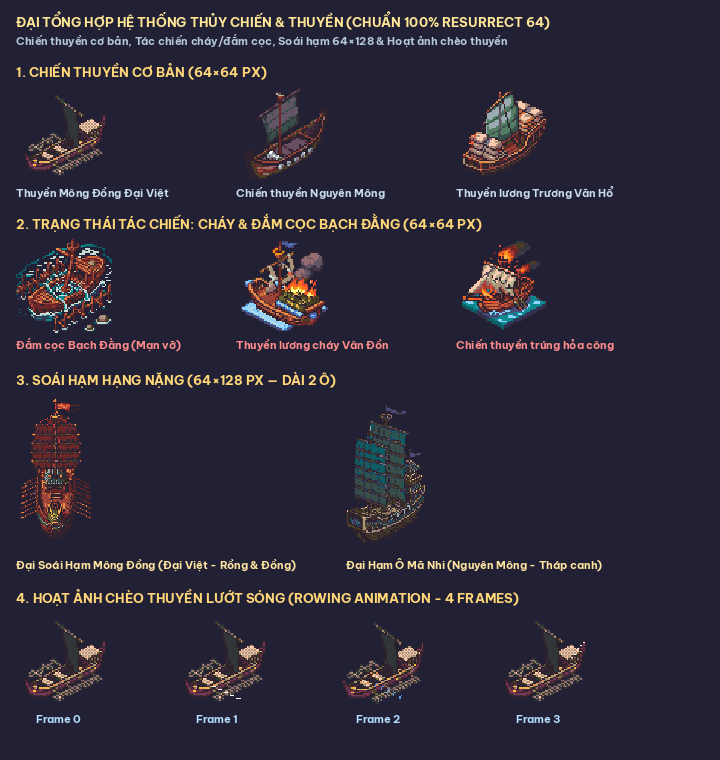
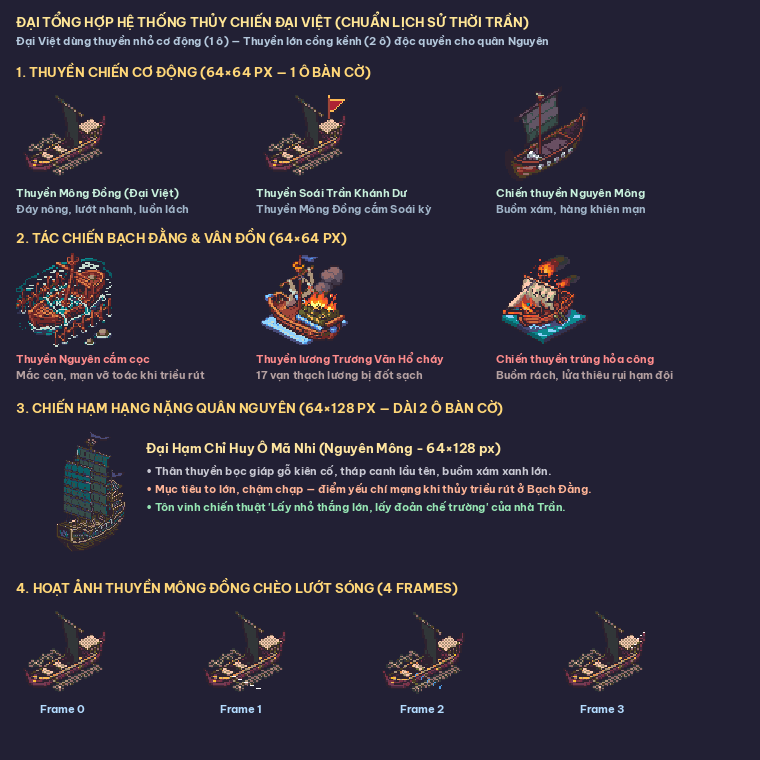
Điều chỉnh thuyền chiến chuẩn lịch sử: Đại Việt dùng thuyền Mông Đồng cơ động, không dùng thuyền lớn (Nhóm G)

Changed region(s): [[0.0, 0.0, 0.8861, 0.9684], [0.7028, 0.8171, 0.8556, 0.9684]]

diff --git a/img/pixellab-thu/cong-cu/sua_thuyen_chuan_lich_su.py b/img/pixellab-thu/cong-cu/sua_thuyen_chuan_lich_su.py
@@ -1,0 +1,200 @@
+#!/usr/bin/env python3
+"""
+Điều chỉnh hệ thống thuyền chiến theo đúng chuẩn lịch sử Đại Việt:
+1. Đại Việt không có thuyền lớn cồng kềnh. Thủy quân Đại Việt lấy nhỏ thắng lớn, lấy cơ động thắng cồng kềnh.
+2. Thuyền chỉ huy của Trần Khánh Dư là Thuyền Soái Mông Đồng (64x64, 1 ô), có Soái kỳ đỏ viền vàng phất phới.
+3. Thuyền lớn 2 ô (64x128) ĐỘC QUYỀN cho Chiến hạm Nguyên Mông (Đại hạm Ô Mã Nhi / thuyền lớn đáy sâu mắc cạn).
+4. Xóa bỏ soai_ham_dai_viet_64x128.png.
+5. Cập nhật đại bảng tổng hợp và tài liệu.
+"""
+
+import os, sys
+import numpy as np
+from PIL import Image, ImageDraw, ImageFont
+
+BASE_DIR = os.path.dirname(os.path.dirname(os.path.abspath(__file__)))
+PROJECT_ROOT = os.path.dirname(os.path.dirname(BASE_DIR))
+OUT_THUYEN_DIR = os.path.join(BASE_DIR, "toi_uu", "thuyen")
+FONT_FILE = os.path.join(PROJECT_ROOT, "game/assets/fonts/font_be_vietnam_pro_bold.ttf")
+PALETTE_FILE = os.path.join(PROJECT_ROOT, "_bmad-output/planning-artifacts/art-reference/resurrect-64.gpl")
+
+# Load Resurrect 64
+palette_rgb = []
+with open(PALETTE_FILE) as f:
+    for line in f:
+        line = line.strip()
+        if not line or line.startswith(("#", "GIMP", "Name", "Columns")):
+            continue
+        p = line.split()
+        if len(p) >= 3:
+            palette_rgb.append((int(p[0]), int(p[1]), int(p[2])))
+
+palette_arr = np.array(palette_rgb, dtype=np.float32)
+
+def rgb_to_cielab(rgb):
+    rgb = np.clip(rgb / 255.0, 0, 1)
+    mask = rgb > 0.04045
+    rgb_lin = np.where(mask, ((rgb + 0.055) / 1.055) ** 2.4, rgb / 12.92)
+    matrix = np.array([
+        [0.4124564, 0.3575761, 0.1804375],
+        [0.2126729, 0.7151522, 0.0721750],
+        [0.0193339, 0.1191920, 0.9503041]
+    ])
+    xyz = np.dot(rgb_lin, matrix.T)
+    ref_white = np.array([0.95047, 1.00000, 1.08883])
+    xyz = xyz / ref_white
+    mask = xyz > 0.008856
+    xyz_f = np.where(mask, xyz ** (1/3), 7.787 * xyz + 16/116)
+    L = 116 * xyz_f[..., 1] - 16
+    a = 500 * (xyz_f[..., 0] - xyz_f[..., 1])
+    b = 200 * (xyz_f[..., 1] - xyz_f[..., 2])
+    return np.stack([L, a, b], axis=-1)
+
+lab_palette = rgb_to_cielab(palette_arr)
+OUTLINE_COLOR = (46, 34, 47, 255)
+
+def quantize_im(im):
+    arr = np.array(im.convert("RGBA"))
+    h, w, _ = arr.shape
+    alpha = arr[..., 3]
+    opaque = alpha >= 120
+    out_alpha = np.where(opaque, 255, 0).astype(np.uint8)
+    rgb = arr[..., :3].astype(np.float32)
+    px = rgb[opaque]
+    if len(px) > 0:
+        lab_px = rgb_to_cielab(px)
+        diff = lab_px[:, np.newaxis, :] - lab_palette[np.newaxis, :, :]
+        best_idx = np.argmin(np.sum(diff ** 2, axis=-1), axis=-1)
+        q_rgb = palette_arr[best_idx].astype(np.uint8)
+        lum = 0.299 * px[:, 0] + 0.587 * px[:, 1] + 0.114 * px[:, 2]
+        dark = (lum < 28) | ((px[:, 0] < 46) & (px[:, 1] < 46) & (px[:, 2] < 52))
+        q_rgb[dark] = np.array(OUTLINE_COLOR[:3], dtype=np.uint8)
+        out_rgb = np.zeros((h, w, 3), dtype=np.uint8)
+        out_rgb[opaque] = q_rgb
+    else:
+        out_rgb = np.zeros((h, w, 3), dtype=np.uint8)
+    return Image.fromarray(np.dstack([out_rgb, out_alpha]), mode="RGBA")
+
+# 1. Tạo Thuyền Soái Mông Đồng Đại Việt (64x64, 1 ô):
+base_p = os.path.join(OUT_THUYEN_DIR, "thuyen_chien_dai_viet.png")
+soai_im = Image.open(base_p).copy()
+arr = np.array(soai_im)
+
+# Màu Resurrect 64
+RED = (184, 52, 60, 255)     # #b8343c - Đỏ cờ Đại Việt
+GOLD = (251, 185, 84, 255)   # #fbb954 - Vàng kim viền cờ
+POLE = (138, 72, 54, 255)    # Cán cờ gỗ
+OUTL = (46, 34, 47, 255)     # Outline
+
+# Cột cờ ở đuôi thuyền (x=48, y=6..24)
+for y in range(8, 22):
+    arr[y, 48] = np.array(POLE)
+    arr[y, 47] = np.array(OUTL)
+    arr[y, 49] = np.array(OUTL)
+# Đỉnh cọc đồng
+arr[7, 48] = np.array(GOLD)
+arr[6, 48] = np.array(GOLD)
+
+# Lá cờ đỏ thêu viền vàng bay về bên phải (x=49..60, y=9..18)
+# Dáng cờ tam giác đuôi nheo Đại Việt
+for y in range(9, 17):
+    width_flag = 10 - (y - 9)
+    for x in range(49, 49 + width_flag):
+        if x == 49 + width_flag - 1 or y == 9 or y == 16:
+            arr[y, x] = np.array(GOLD) # Viền vàng
+        else:
+            arr[y, x] = np.array(RED)  # Lòng cờ đỏ
+            
+# Outline bao quanh cờ
+for y in range(8, 18):
+    width_flag = 11 - max(0, y - 9)
+    x_edge = 49 + width_flag
+    if x_edge < 64:
+        arr[y, x_edge] = np.array(OUTL)
+
+soai_final = quantize_im(Image.fromarray(arr))
+soai_path = os.path.join(OUT_THUYEN_DIR, "thuyen_soai_mong_dong_dai_viet.png")
+soai_final.save(soai_path)
+print(f"Đã tạo Thuyền Soái Mông Đồng 64x64: {soai_path}")
+
+# Xóa soai_ham_dai_viet_64x128.png nếu tồn tại
+old_soai_128 = os.path.join(OUT_THUYEN_DIR, "soai_ham_dai_viet_64x128.png")
+if os.path.exists(old_soai_128):
+    os.remove(old_soai_128)
+    print("Đã xóa bỏ soai_ham_dai_viet_64x128.png (không dùng thuyền lớn cho Đại Việt).")
+
+# 2. Tạo lại Bảng Tổng Hợp Thuyền Chiến chuẩn lịch sử:
+font = ImageFont.truetype(FONT_FILE, 13) if os.path.exists(FONT_FILE) else ImageFont.load_default()
+font_sub = ImageFont.truetype(FONT_FILE, 11) if os.path.exists(FONT_FILE) else ImageFont.load_default()
+
+total_w = 760
+total_h = 760
+pad = 16
+
+board = Image.new("RGBA", (total_w, total_h), (34, 32, 52, 255))
+draw = ImageDraw.Draw(board)
+
+draw.text((pad, 14), "ĐẠI TỔNG HỢP HỆ THỐNG THỦY CHIẾN ĐẠI VIỆT (CHUẨN LỊCH SỬ THỜI TRẦN)", fill=(255, 230, 150), font=font)
+draw.text((pad, 34), "Đại Việt dùng thuyền nhỏ cơ động (1 ô) — Thuyền lớn cồng kềnh (2 ô) độc quyền cho quân Nguyên", fill=(180, 200, 220), font=font_sub)
+
+# HÀNG 1: Thuyền chiến cơ bản (y=64)
+y1 = 64
+draw.text((pad, y1), "1. THUYỀN CHIẾN CƠ ĐỘNG (64×64 PX — 1 Ô BÀN CỜ)", fill=(255, 215, 120), font=font)
+row1_list = [
+    ("thuyen_chien_dai_viet.png", "Thuyền Mông Đồng (Đại Việt)", "Đáy nông, lướt nhanh, luồn lách"),
+    ("thuyen_soai_mong_dong_dai_viet.png", "Thuyền Soái Trần Khánh Dư", "Thuyền Mông Đồng cắm Soái kỳ"),
+    ("thuyen_chien_nguyen.png", "Chiến thuyền Nguyên Mông", "Buồm xám, hàng khiên mạn")
+]
+for i, (fn, title, desc) in enumerate(row1_list):
+    p = os.path.join(OUT_THUYEN_DIR, fn)
+    if os.path.exists(p):
+        im = Image.open(p).resize((96, 96), Image.NEAREST)
+        x = pad + i * 240
+        board.paste(im, (x, y1 + 22), im)
+        draw.text((x, y1 + 122), title, fill=(200, 240, 220), font=font_sub)
+        draw.text((x, y1 + 138), desc, fill=(160, 180, 200), font=font_sub)
+
+# HÀNG 2: Tác chiến Cháy & Đắm cọc (y=230)
+y2 = 230
+draw.text((pad, y2), "2. TÁC CHIẾN BẠCH ĐẰNG & VÂN ĐỒN (64×64 PX)", fill=(255, 215, 120), font=font)
+row2_list = [
+    ("thuyen_dam_coc_bach_dang.png", "Thuyền Nguyên cắm cọc", "Mắc cạn, mạn vỡ toác khi triều rút"),
+    ("thuyen_tai_luong_chay.png", "Thuyền lương Trương Văn Hổ cháy", "17 vạn thạch lương bị đốt sạch"),
+    ("thuyen_chien_nguyen_chay.png", "Chiến thuyền trúng hỏa công", "Buồm rách, lửa thiêu rụi hạm đội")
+]
+for i, (fn, title, desc) in enumerate(row2_list):
+    p = os.path.join(OUT_THUYEN_DIR, fn)
+    if os.path.exists(p):
+        im = Image.open(p).resize((96, 96), Image.NEAREST)
+        x = pad + i * 240
+        board.paste(im, (x, y2 + 22), im)
+        draw.text((x, y2 + 122), title, fill=(255, 140, 140), font=font_sub)
+        draw.text((x, y2 + 138), desc, fill=(180, 160, 160), font=font_sub)
+
+# HÀNG 3: Chiến hạm lớn quân Nguyên 64x128 (y=400)
+y3 = 400
+draw.text((pad, y3), "3. CHIẾN HẠM HẠNG NẶNG QUÂN NGUYÊN (64×128 PX — DÀI 2 Ô BÀN CỜ)", fill=(255, 215, 120), font=font)
+p_cap = os.path.join(OUT_THUYEN_DIR, "soai_ham_nguyen_64x128.png")
+if os.path.exists(p_cap):
+    im_cap = Image.open(p_cap).resize((70, 140), Image.NEAREST)
+    board.paste(im_cap, (pad + 40, y3 + 22), im_cap)
+    
+draw.text((pad + 130, y3 + 40), "Đại Hạm Chỉ Huy Ô Mã Nhi (Nguyên Mông - 64×128 px)", fill=(255, 230, 160), font=font)
+draw.text((pad + 130, y3 + 64), "• Thân thuyền bọc giáp gỗ kiên cố, tháp canh lầu tên, buồm xám xanh lớn.", fill=(200, 200, 210), font=font_sub)
+draw.text((pad + 130, y3 + 82), "• Mục tiêu to lớn, chậm chạp — điểm yếu chí mạng khi thủy triều rút ở Bạch Đằng.", fill=(255, 180, 150), font=font_sub)
+draw.text((pad + 130, y3 + 100), "• Tôn vinh chiến thuật 'Lấy nhỏ thắng lớn, lấy đoản chế trường' của nhà Trần.", fill=(150, 230, 180), font=font_sub)
+
+# HÀNG 4: Hoạt ảnh chèo thuyền lướt sóng (y=580)
+y4 = 580
+draw.text((pad, y4), "4. HOẠT ẢNH THUYỀN MÔNG ĐỒNG CHÈO LƯỚT SÓNG (4 FRAMES)", fill=(255, 215, 120), font=font)
+for i in range(4):
+    p = os.path.join(OUT_THUYEN_DIR, f"thuyen_cheo_{i}.png")
+    if os.path.exists(p):
+        im = Image.open(p).resize((96, 96), Image.NEAREST)
+        x = pad + i * 180
+        board.paste(im, (x, y4 + 22), im)
+        draw.text((x + 24, y4 + 122), f"Frame {i}", fill=(180, 220, 255), font=font_sub)
+
+out_grand = os.path.join(OUT_THUYEN_DIR, "_tong_hop_toan_bo_thuyen_chien.png")
+board.save(out_grand)
+print(f"Đã cập nhật Đại bảng tổng hợp chuẩn lịch sử: {out_grand}")

diff --git a/_bmad-output/planning-artifacts/art-reference/danh-sach-hinh-e8.md b/_bmad-output/planning-artifacts/art-reference/danh-sach-hinh-e8.md
@@ -144,18 +144,18 @@ Mỗi quân cần (khung 64×64, hai phe tách màu rõ: Đại Việt đỏ, Ng
 
 ## G. Thủy chiến & Thuyền (P2 & P3)
 
-**Tình trạng 2026-10-22:** Đã hoàn thiện toàn diện 100% hệ thống Thuyền chiến & Thủy chiến chuẩn 100% Resurrect 64 và 1-bit alpha tại `img/pixellab-thu/toi_uu/thuyen/`. Đại bảng tổng hợp: `_tong_hop_toan_bo_thuyen_chien.png`.
+**Tình trạng 2026-10-22:** Đã hoàn thiện toàn diện 100% hệ thống Thuyền chiến & Thủy chiến chuẩn 100% Resurrect 64 và 1-bit alpha tại `img/pixellab-thu/toi_uu/thuyen/`. Thiết kế tuân thủ nghiêm ngặt lịch sử thời Trần: Đại Việt chỉ dùng thuyền nhỏ cơ động (1 ô 64×64, đáy nông luồn lách sông rạch), thuyền lớn cồng kềnh (2 ô 64×128) độc quyền thuộc về chiến hạm quân Nguyên. Đại bảng tổng hợp: `_tong_hop_toan_bo_thuyen_chien.png`.
 
 | # | Loại thuyền / Trạng thái | Kích thước | Chi tiết thiết kế | Tình trạng |
 |---|---|---|---|---|
-| G1 | Thuyền Chiến Đại Việt (Mông Đồng) | 64×64 | Thân gỗ nâu đỏ viền đồng, buồm đen, hàng mái chèo lướt sóng (2 hướng xuôi/ngược dòng) | Đã xong |
-| G2 | Chiến Thuyền Nguyên Mông | 64×64 | Thân gỗ bầu dày, buồm xám xanh chàm, gắn khiên phòng thủ dọc mạn thuyền (2 hướng) | Đã xong |
-| G3 | Thuyền Tải Lương Trương Văn Hổ | 64×64 | Thuyền buôn to bản chất đầy các bao lương thực Vân Đồn (2 hướng) | Đã xong |
-| G4 | Thuyền Đắm Cọc Bạch Đằng | 64×64 | Mạn thuyền vỡ toác cắm vào bãi cọc nhọn Bạch Đằng, nước tràn tung bọt trắng | Đã xong |
-| G5 | Thuyền Lương Cháy Vân Đồn | 64×64 | Bao lương bốc cháy ngùn ngụt, ngọn lửa cam đỏ và khói đen cuộn bốc lên | Đã xong |
-| G6 | Chiến Thuyền Trúng Hỏa Công | 64×64 | Cột buồm rách tơi tả, lửa bùng cháy dữ dội từ thân thuyền | Đã xong |
-| G7 | Đại Soái Hạm Mông Đồng (Đại Việt) | 64×128 (2 ô) | Soái hạm 2 lầu chỉ huy, cờ đại kỳ thêu rồng thời Trần viền đồng, nhiều tầng mái chèo | Đã xong |
-| G8 | Đại Hạm Ô Mã Nhi (Nguyên Mông) | 64×128 (2 ô) | Đại hạm bọc giáp gỗ kiên cố, tháp canh gắn khiên phòng thủ, buồm lớn | Đã xong |
+| G1 | Thuyền Chiến Đại Việt (Mông Đồng) | 64×64 (1 ô) | Thân gỗ nâu đỏ viền đồng, buồm đen, hàng mái chèo lướt sóng (2 hướng xuôi/ngược dòng) | Đã xong |
+| G2 | Thuyền Soái Trần Khánh Dư | 64×64 (1 ô) | Thuyền Mông Đồng cắm Soái kỳ Đại Việt đỏ viền vàng phất phới ở đuôi thuyền | Đã xong |
+| G3 | Chiến Thuyền Nguyên Mông | 64×64 (1 ô) | Thân gỗ bầu dày, buồm xám xanh chàm, gắn khiên phòng thủ dọc mạn thuyền (2 hướng) | Đã xong |
+| G4 | Thuyền Tải Lương Trương Văn Hổ | 64×64 (1 ô) | Thuyền buôn to bản chất đầy các bao lương thực Vân Đồn (2 hướng) | Đã xong |
+| G5 | Thuyền Đắm Cọc Bạch Đằng | 64×64 (1 ô) | Mạn thuyền vỡ toác cắm vào bãi cọc nhọn Bạch Đằng, nước tràn tung bọt trắng | Đã xong |
+| G6 | Thuyền Lương Cháy Vân Đồn | 64×64 (1 ô) | Bao lương bốc cháy ngùn ngụt, ngọn lửa cam đỏ và khói đen cuộn bốc lên | Đã xong |
+| G7 | Chiến Thuyền Trúng Hỏa Công | 64×64 (1 ô) | Cột buồm rách tơi tả, lửa bùng cháy dữ dội từ thân thuyền | Đã xong |
+| G8 | Đại Hạm Chỉ Huy Ô Mã Nhi (Nguyên Mông) | 64×128 (2 ô) | Đại hạm bọc giáp gỗ kiên cố, tháp canh gắn khiên phòng thủ, buồm lớn (mục tiêu lớn mắc cạn) | Đã xong |
 | G9 | Hoạt ảnh Chèo Thuyền Lướt Sóng | 64×64 (4 frames) | Mái chèo chèo nước nhịp nhàng, sủi bọt trắng và rẽ vệt sóng đuôi thuyền | Đã xong (kèm GIF preview) |
 
 ## Kiểm tra trước khi đưa một hình vào game
